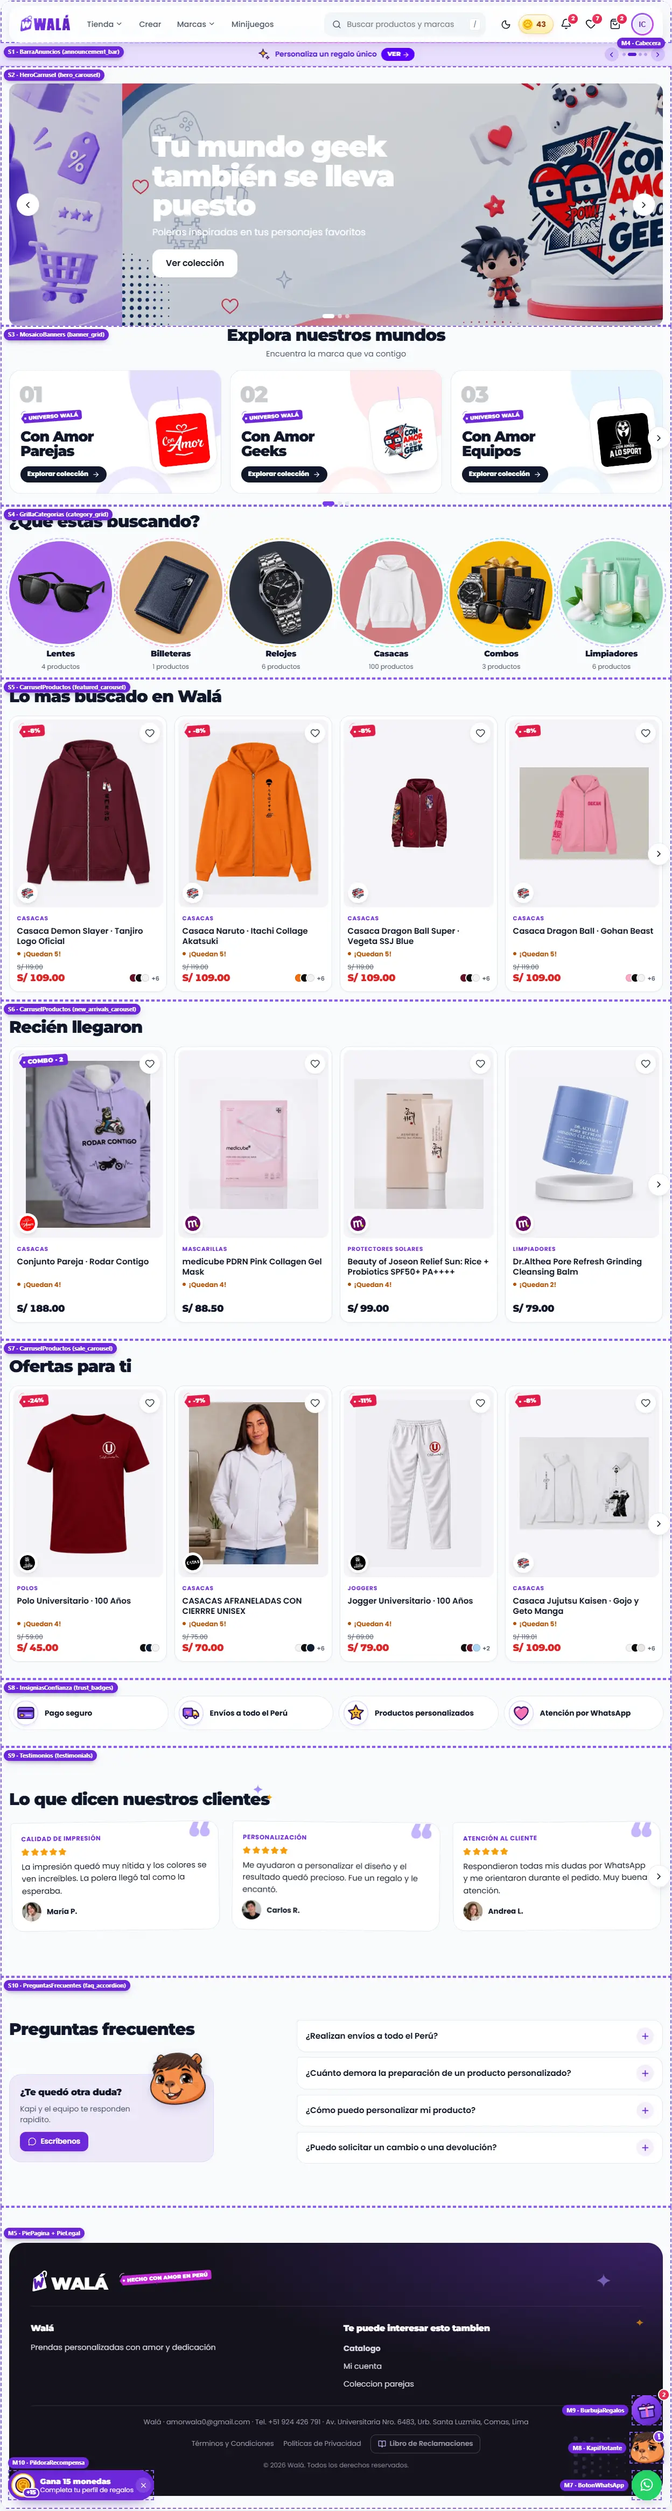
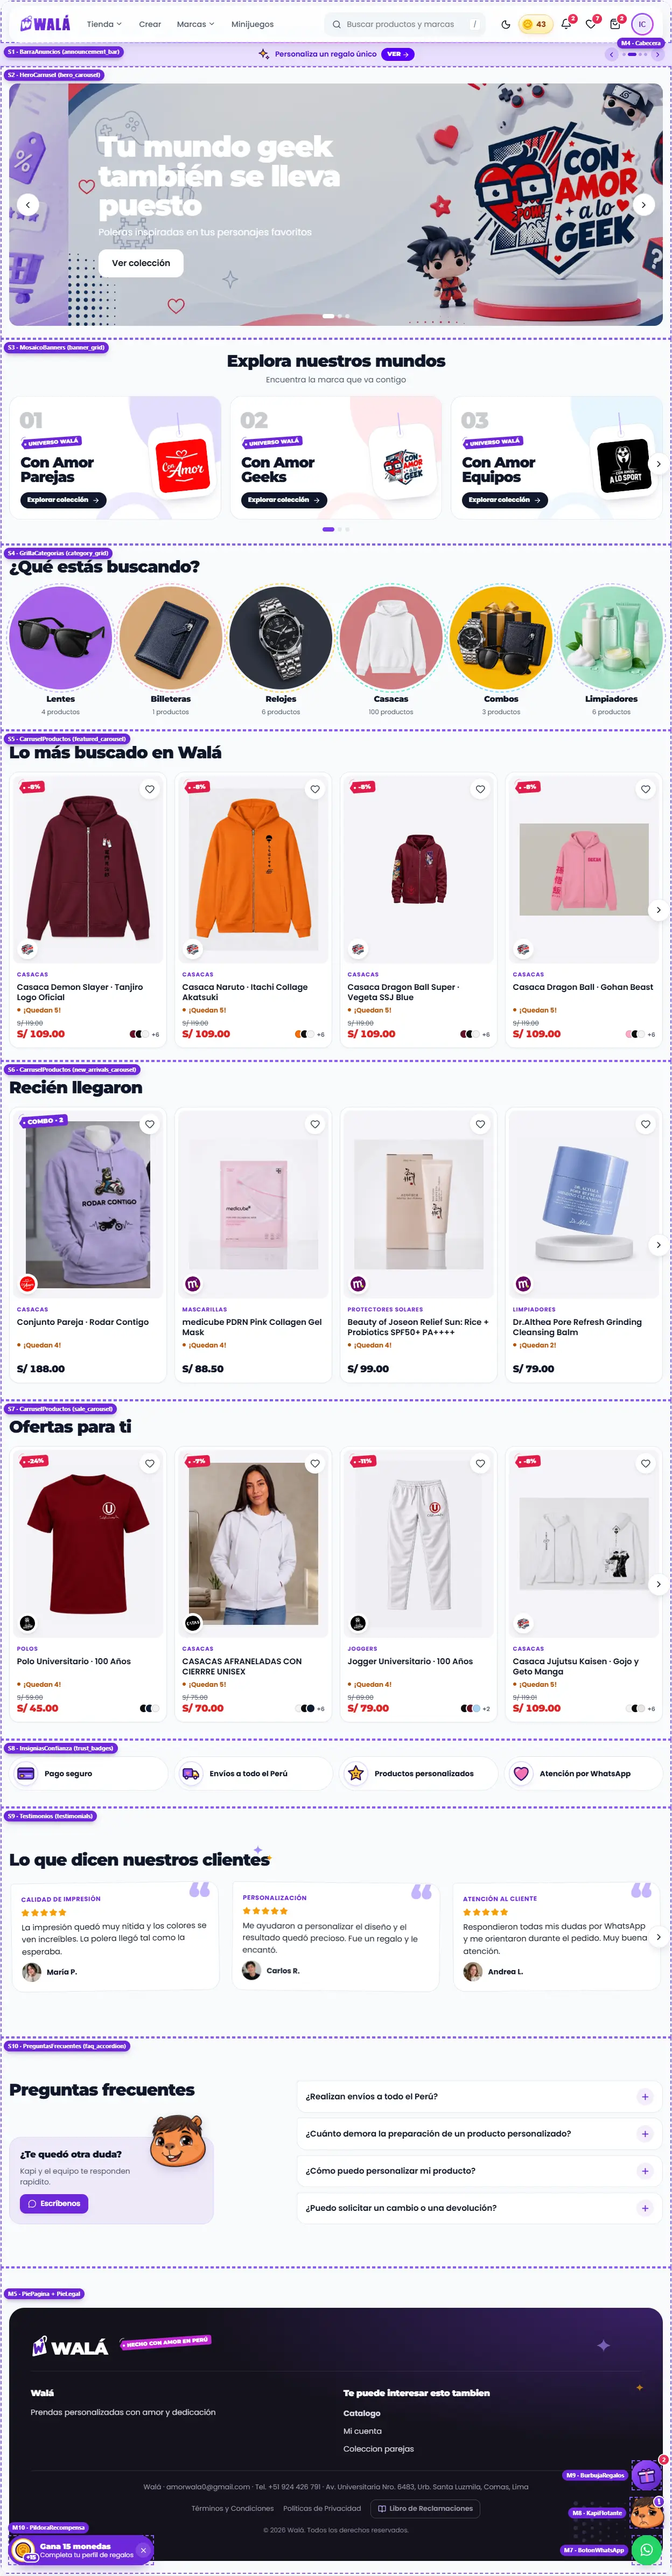
Kit: distancia mínima entre secciones y la ayuda de Preguntas frecuentes sin hueco
- BloqueSeccion: el espacio del builder manda si es mayor que --seccion-min;
  con 0 queda el mínimo (los componentes viejos traían ese aire por dentro,
  y el carrusel principal quedaba pegado a "Explora nuestros mundos").
  La barra de anuncios sigue pegada.
- Preguntas frecuentes: la tarjeta de ayuda baja hasta la última pregunta.

diff --git a/src/componentes/kit/Seccion.jsx b/src/componentes/kit/Seccion.jsx
@@ -12,7 +12,22 @@ import s from './Seccion.module.css';
  *   paddingTop, paddingBottom, backgroundColor, backgroundGradient,
  *   backgroundImageUrl, backgroundBlur, backgroundOverlay, anchorId, fullWidth
  */
-export function BloqueSeccion({ ajustes = {}, ancho = 'contenido', children, className }) {
+/**
+ * Espacio arriba o abajo con un mínimo: el valor del builder manda si es
+ * mayor; si es 0 o no hay, queda el mínimo (--seccion-min). Los componentes
+ * viejos de la tienda traían su propio margen interno, así que un "0em" del
+ * builder nunca dejaba dos secciones pegadas; aquí tampoco.
+ *  - pegado: sin mínimo (barra de anuncios, que va justo bajo la cabecera)
+ */
+function espacio(valor, pegado) {
+  const v = String(valor ?? '').trim();
+  if (pegado) return v || undefined;
+  if (!v || parseFloat(v) === 0) return 'var(--seccion-min)';
+  const conUnidad = /^[\d.]+$/.test(v) ? `${v}px` : v;
+  return `max(var(--seccion-min), ${conUnidad})`;
+}
+
+export function BloqueSeccion({ ajustes = {}, ancho = 'contenido', pegado = false, children, className }) {
   const {
     paddingTop, paddingBottom, backgroundColor, backgroundGradient,
     backgroundImageUrl, backgroundBlur, backgroundOverlay, anchorId, fullWidth,
@@ -25,7 +40,10 @@ export function BloqueSeccion({ ajustes = {}, ancho = 'contenido', children, cla
     <section
       id={anchorId || undefined}
       className={[s.bloque, completo && s.completo, className].filter(Boolean).join(' ')}
-      style={{ paddingTop: paddingTop || undefined, paddingBottom: paddingBottom || undefined }}
+      style={{
+        paddingTop: paddingTop != null && paddingTop !== '' ? espacio(paddingTop, pegado) : undefined,
+        paddingBottom: paddingBottom != null && paddingBottom !== '' ? espacio(paddingBottom, pegado) : undefined,
+      }}
     >
       {hayFondo && (
         <div className={s.fondo} aria-hidden="true">

diff --git a/src/componentes/kit/Secciones.module.css b/src/componentes/kit/Secciones.module.css
@@ -544,6 +544,11 @@ a.anuncio:hover {
   align-items: start;
 }
 
+/* La ayuda baja hasta la última pregunta: sin hueco a mitad de columna. */
+.faqDividido .faqAyuda {
+  align-self: end;
+}
+
 /* Apilado (y celular): título, preguntas y la ayuda al final. */
 .faqApilado {
   display: grid;
@@ -555,6 +560,10 @@ a.anuncio:hover {
     grid-template-columns: minmax(0, 1fr);
     grid-template-areas: 'titulo' 'preguntas' 'ayuda';
     grid-template-rows: auto;
+  }
+
+  .faqDividido .faqAyuda {
+    align-self: start;
   }
 }
 

diff --git a/src/componentes/kit/Secciones.jsx b/src/componentes/kit/Secciones.jsx
@@ -538,6 +538,7 @@ export function RenderSecciones({ secciones = [], productosPara, categoriasPara,
           key={sec.id}
           ajustes={reg.sinRelleno ? { ...ajustes, paddingTop: '0', paddingBottom: '0' } : ajustes}
           ancho={reg.ancho}
+          pegado={reg.sinRelleno}
         >
           <Componente ajustes={ajustes} {...extra} />
         </BloqueSeccion>

diff --git a/src/componentes/kit/Seccion.module.css b/src/componentes/kit/Seccion.module.css
@@ -1,4 +1,8 @@
 .bloque {
+  /* Mínimo entre secciones aunque el builder guarde 0 (ver espacio() en
+     Seccion.jsx). Dos secciones seguidas quedan al menos a 2 × este valor. */
+  --seccion-min: clamp(1rem, 2.5cqi, 1.5rem);
+
   position: relative;
   isolation: isolate;
   padding: var(--section-gap, 2rem) 0;

diff --git a/src/componentes/kit/guia/INICIO.md b/src/componentes/kit/guia/INICIO.md
@@ -52,6 +52,13 @@ Se dibujan con `PaginaTienda` → `RenderSecciones`. Cada una va dentro de
 | S9 | "Lo que dicen nuestros clientes" | `testimonials` | `Testimonios` | `TituloSeccion`, `Carrusel`, `TarjetaTestimonio` | `piezas/TarjetaTestimonio.module.css` | settings | title, testimonials (text, author, topic, rating, avatar, verified) |
 | S10 | "Preguntas frecuentes" | `faq_accordion` | `PreguntasFrecuentes` | `TituloSeccion`, `Acordeon`, `TarjetaAyuda` (Kapi asomado) | `Secciones.module.css` (`.faq…`), `Acordeon.module.css`, `piezas/TarjetaAyuda.module.css` | settings; el botón "Escríbenos" usa el WhatsApp de la tienda (`contacto` por `propsPara`) | title, items (question, answer), layout, defaultOpen |
 
+**Distancias entre secciones:** las pone el builder (espacio arriba y abajo
+de cada sección, `paddingTop` / `paddingBottom`), pero nunca bajan de
+`--seccion-min` (1 a 1.5rem según el ancho): si el builder guarda `0`, manda
+el mínimo, y si guarda más, manda el builder. Así dos secciones nunca quedan
+pegadas (los componentes viejos traían ese aire por dentro). La única que va
+pegada a propósito es la barra de anuncios (S1).
+
 Qué lista de productos va en S5, S6 y S7 lo decide `productosDeSeccion`
 (`paginas/Paginas.jsx`), con la misma regla que TiendaPage.
 
@@ -64,7 +71,7 @@ esta tabla:
 |---|---|---|
 | `TarjetaProducto` | S5, S6, S7, "También te puede gustar" del carrito | `TarjetaProducto.module.css` |
 | `TituloSeccion` | S3, S4, S5, S6, S7, S9, S10 | `Seccion.module.css` |
-| `BloqueSeccion` (relleno y fondo) | todas las S | `Seccion.module.css` |
+| `BloqueSeccion` (relleno y fondo) | todas las S | `Seccion.module.css` (`--seccion-min`) |
 | `Carrusel` (flechas, puntos) | S2, S3, S5, S6, S7, S9 | `Carrusel.module.css` |
 | `EtiquetaColgante` | descuentos y "Nuevo" de S5-S7, "Universo Walá" de S3, antetítulos, M11 | `Marca.module.css` |
 | `Boton` | M2, M3, M4, M11, M12, S2, carrito, Mis pedidos | `Boton.module.css` |
